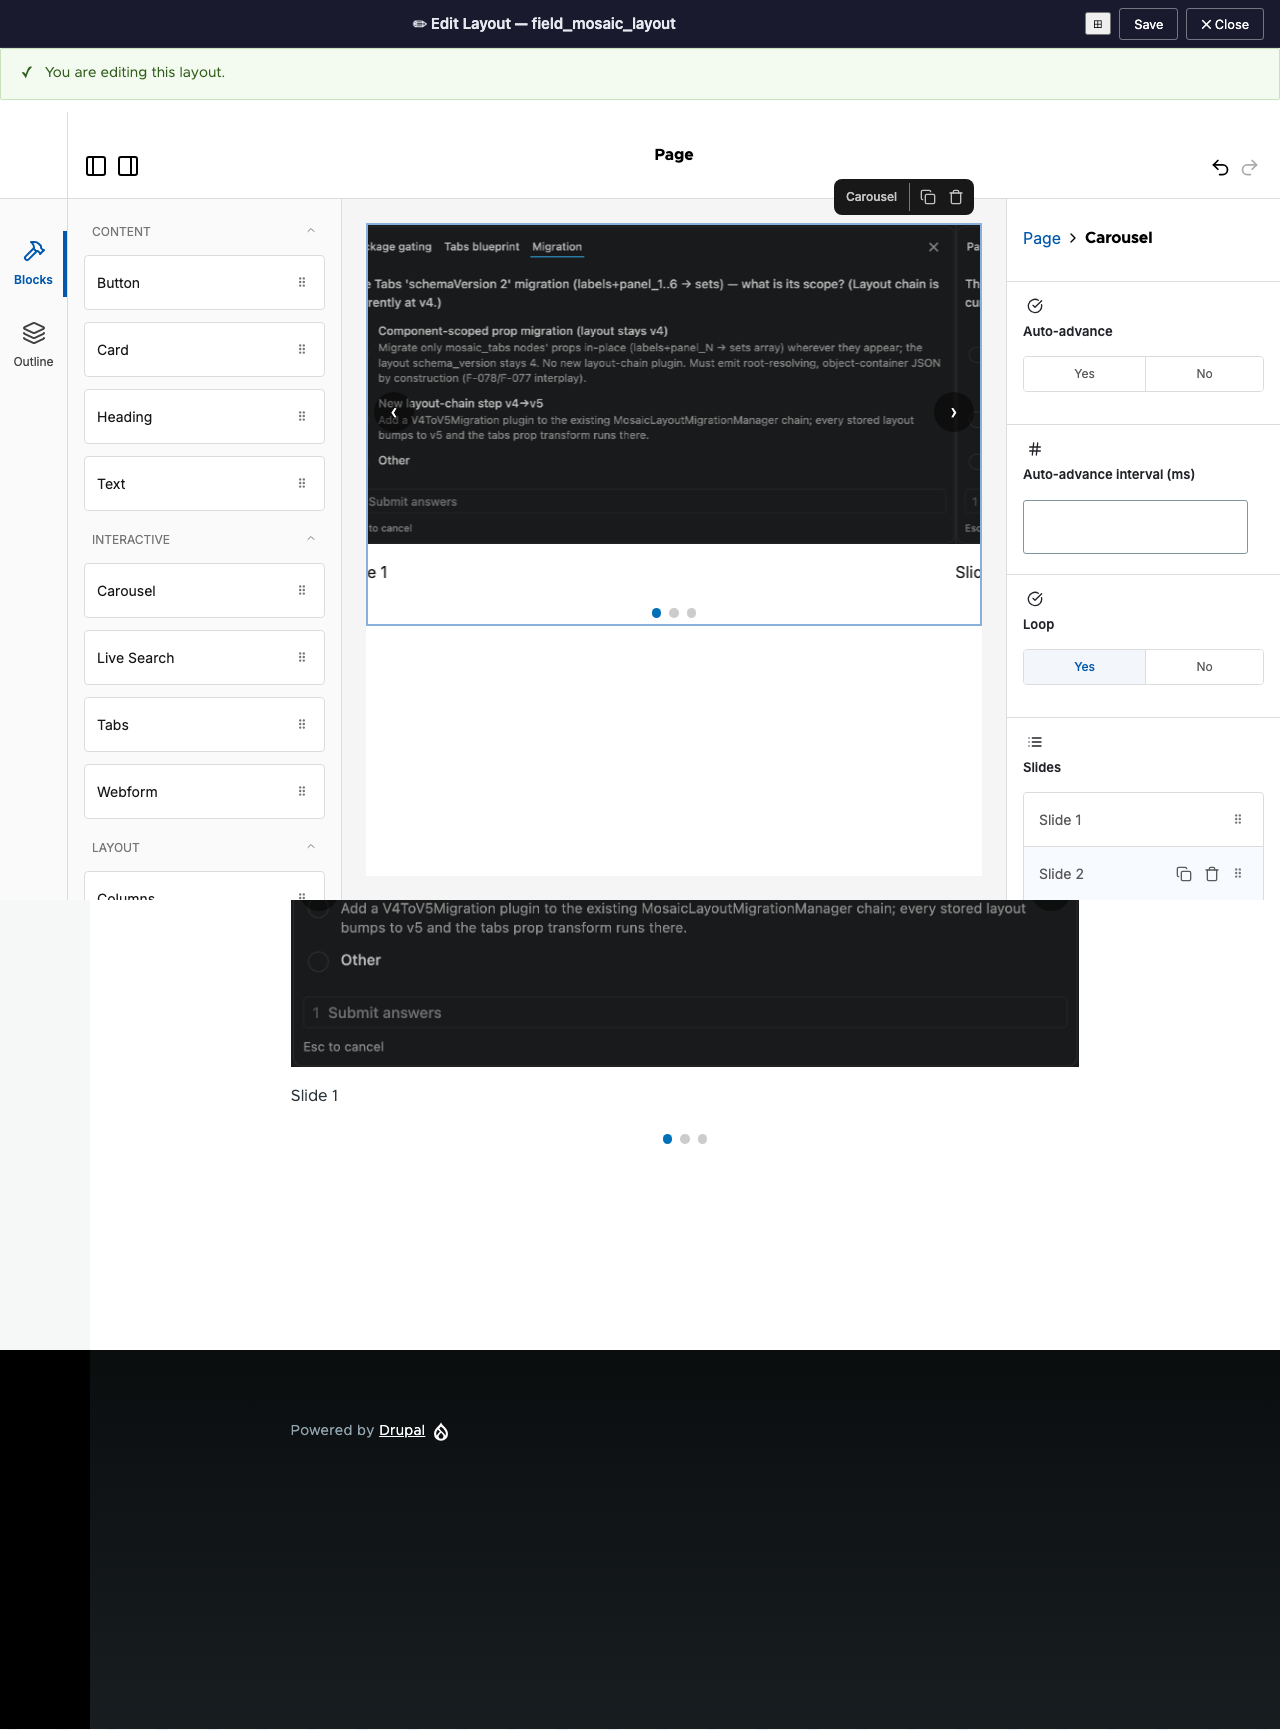
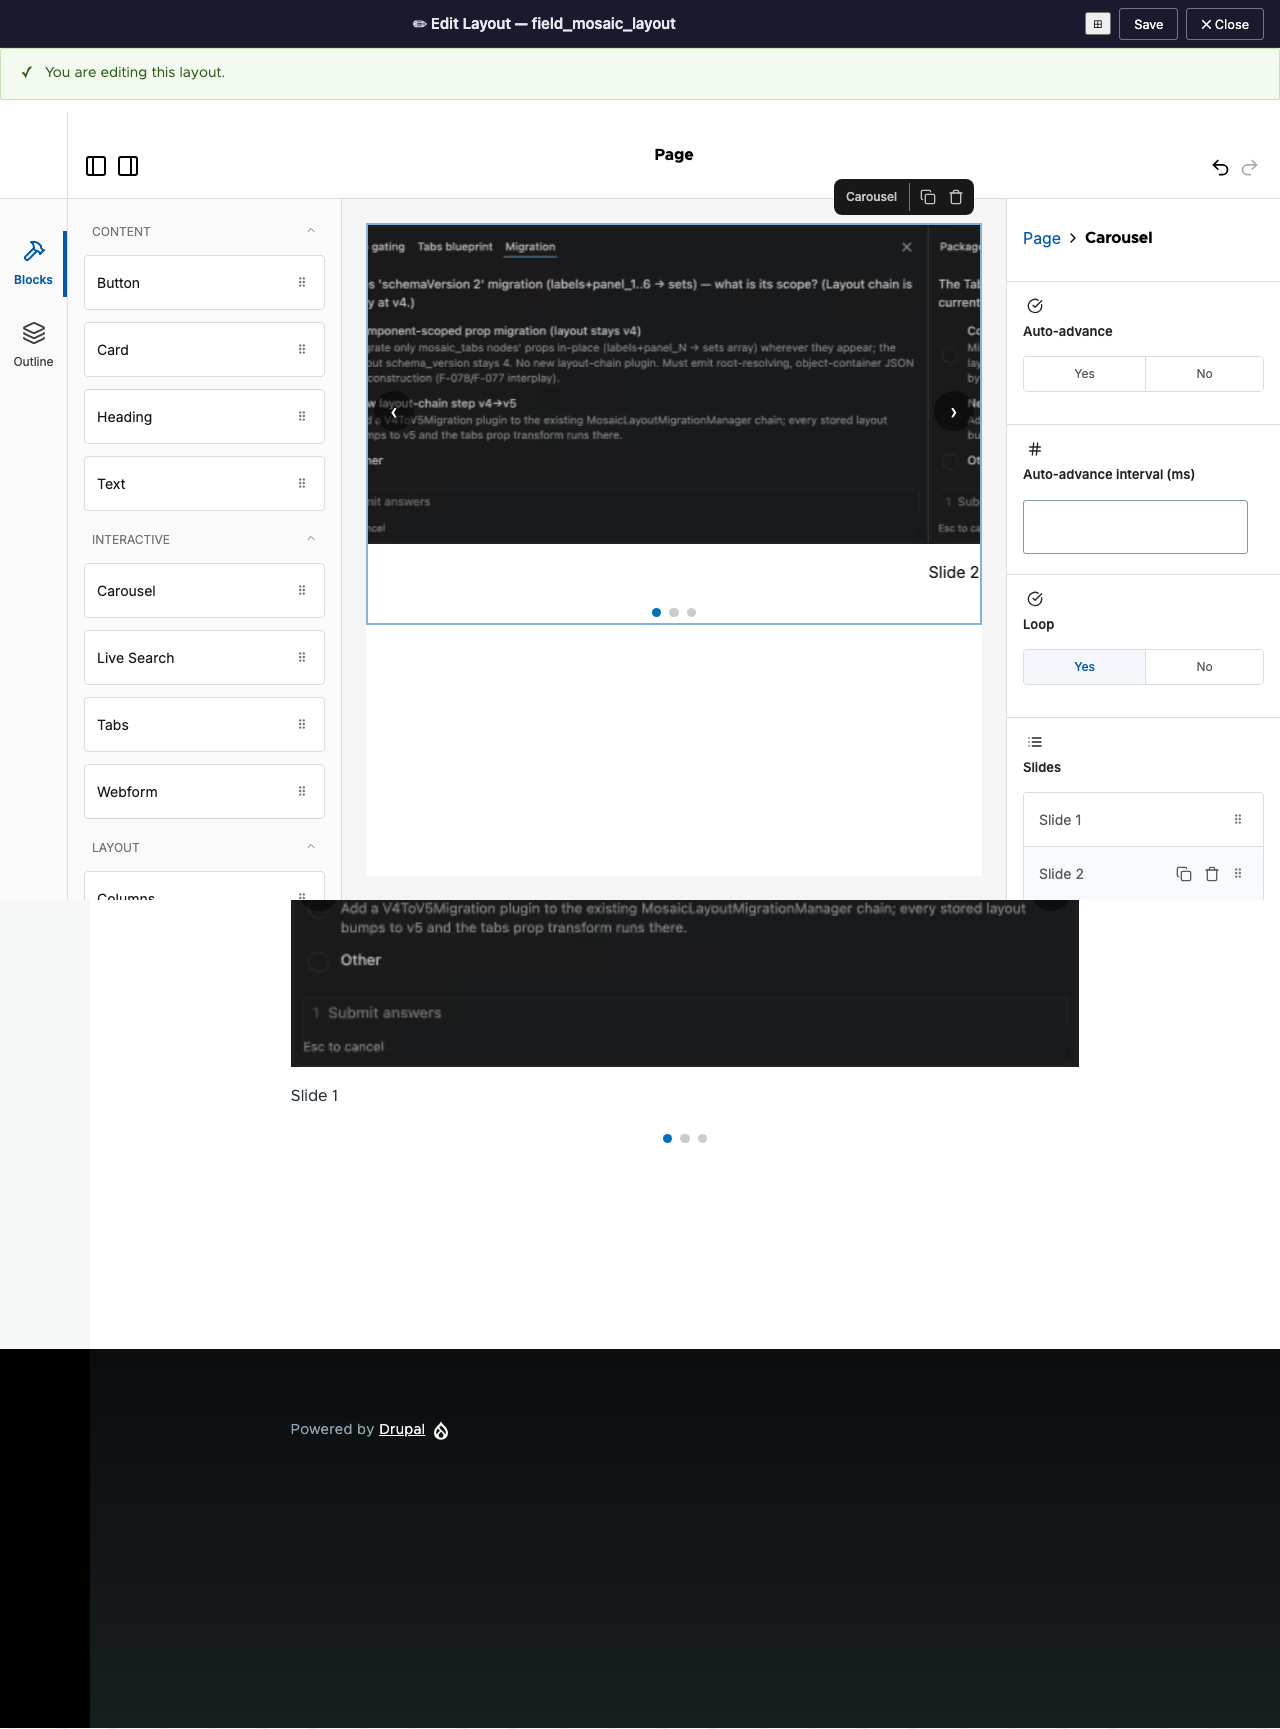
W8: F-103 Option A — canvas edit-mode inert contract (carousel + live_search)
Both live renderer components now honor data-mosaic-preview (shared editMode.ts):
carousel never auto-advances in a canvas + arrows/dots pointer-events:none (panel
sync untouched); live_search input disabled + zero fetches. Closes #55. Rides
frozen ship #34. Vitest editModeInert 7/7 (RED->GREEN); live f103 3/3 (visitor
still auto-advances, FE canvas inert + panel-sync drives); Vitest 503/1 (B-101);
carousel journeys + lock + f066 + F-094 7/7; renderer rebuilt, builder untouched.
Full report: reports/REPORT-W8.md.

Changed region(s): [[0.2812, 0.1249, 0.7812, 0.3123], [0.7188, 0.3123, 0.75, 0.3436]]

diff --git a/reports/REPORT-W8.md b/reports/REPORT-W8.md
@@ -1,0 +1,71 @@
+# REPORT — W8 (F-103 OPTION A: canvas edit-mode inert contract)
+
+**Charter:** W8 — implement F-103 Option A (ratified R-55) into frozen ship #34.
+**Status:** COMPLETE — carousel + live_search now honor `data-mosaic-preview`;
+RED→GREEN Vitest (7/7) + live e2e both directions (3/3); renderer rebuilt; gates green.
+**Rulings ledgered first:** R-55 (Option A; B/C rejected), R-56 (#56 closed non-defect;
+per-slide style → CP-CAROUSEL-GEOMETRY, queued first after ceremony).
+
+---
+
+## W8a — WITNESS (current paths, file:line)
+- **carousel** `mosaic-carousel.ts`: `connectedCallback` (152) → `if (this.autoAdvance)
+  this._startTimer()`; `_startTimer` (162) → `setInterval` auto-advance. **No**
+  `data-mosaic-preview` handling; arrows/dots always live.
+- **live_search** `mosaic-live-search.ts`: `_onInput` (89) → `setTimeout(300)` →
+  `_fetch` (98) → `fetch(endpoint+query)`. **No** edit-mode handling.
+- **tabs** (precedent to generalize) `mosaic-tabs.ts:57`:
+  `:host([data-mosaic-preview]) button[role="tab"] { pointer-events: none; }` — CSS-only
+  contract; MosaicRenderer stamps `data-mosaic-preview="canvas"` (`MosaicRenderer.php:449`).
+
+## W8b — FIX (renderer only)
+Shared `editMode.ts` centralises the contract (`CANVAS_PREVIEW_ATTR`, `isCanvasPreview`).
+Both components add a reactive `preview` Boolean prop bound to `data-mosaic-preview`.
+- **carousel:** `connectedCallback` → `if (this.autoAdvance && !this.preview)`;
+  `_startTimer` → `if (this.preview) return`; `updated()` → clears a running timer when
+  preview is set; CSS `:host([data-mosaic-preview]) .car-btn, .car-dot { pointer-events:
+  none }`. **Panel-sync untouched** (drives via the reactive `active` prop + `.car-track`
+  transform, which the inerting does not touch).
+- **live_search:** `_onInput` + `_fetch` early-return when preview (zero network);
+  input `?disabled=${this.preview}`.
+
+### RED→GREEN — Vitest `editModeInert.test.ts` (7/7)
+Guards driven directly (the DSD-reuse `createRenderRoot` is not jsdom-mountable — proven
+live instead). Pre-fix, the two canvas cells FAIL (timer runs / fetch fires):
+- carousel: auto-advances when !preview; **never** when preview (no `_timer`); a running
+  timer STOPS when preview is set (`updated`); panel-sync still drives `active` in preview;
+  CSS carries the arrow+dot `pointer-events:none` rule.
+- live_search: fetches when !preview; **zero** fetches when preview.
+
+## W8c — PROVE LIVE both ways (`f103-edit-mode-inert.spec.ts`, node 945, auto_advance=ON)
+- **VISITOR** `/node/945`: `data-mosaic-preview` = null; track `translateX 0% → −200%`
+  over 1.6s → **still auto-advances for visitors**. Frame `f103-01-visitor-autoadvances.png`.
+- **FE dialog canvas**: `data-mosaic-preview="canvas"`; `.car-btn` computed
+  `pointer-events: none` (**arrows dead**); track `0% → 0%` over 2.5s (**no auto-scroll
+  under the author**). Frame `f103-02-fe-canvas-inert.png`.
+- **Panel-sync intact**: expanding slide row 2 → canvas shows slide index 1 (geometry
+  oracle). Frame `f103-03-fe-canvas-panelsync.png`.
+All 3 @journey tests passed (real pointer).
+
+## W8d — dist + gates
+- **dist:** `js/dist/renderer.js` rebuilt (37.25 → 39.23 kB). **Builder bundle untouched**
+  — change is renderer-only (`js/src/renderer/components/`); the canvas loads
+  `mosaic/renderer`, not a builder-bundled copy.
+- **Vitest:** 503 passed / 1 failed = pre-existing **B-101** (MosaicPuckAdapter bool→radio
+  oracle drift; unrelated).
+- **e2e:** carousel slider-geometry + sync + fe + lifecycle + lock + f066 + F-094 scroll
+  = **7/7** green post-rebuild (F-103 did not regress the sync journeys — they expand rows,
+  not click arrows).
+- **PHP:** no PHP changed this charter → suite unaffected (W6 #56 guards remain 10/10).
+- Typecheck: only the pre-existing `dsdShadow.ts` TS2430 error; my files clean.
+
+## Files
+- New (tracked): `js/src/renderer/components/editMode.ts`;
+  `js/src/renderer/components/__tests__/editModeInert.test.ts`.
+- Modified (tracked): `js/src/renderer/components/mosaic-carousel.ts`;
+  `js/src/renderer/components/mosaic-live-search.ts`; `js/dist/renderer.js`.
+- Evidence-only (gitignored): `js/e2e/journeys/f103-edit-mode-inert.spec.ts`.
+- Ledger: `ledger-live/SHIP-34.md` (F-103 section), `ledger-live/TODO.md` (R-55/R-56 +
+  CP-CAROUSEL-GEOMETRY + F-103 resolution), album `e2e-evidence/ship34-carousel/f103-0{1,2,3}`.
+
+Ship #34 remains ONE uncommitted change set for Arun's ceremony (mosaic git read-only here).

diff --git a/ledger-live/SHIP-34.md b/ledger-live/SHIP-34.md
@@ -156,3 +156,56 @@ environmental drift (61 errors) needs a tooling/PHP-version reconcile, separate
 from any feature work. (c) The same DSD style-adoption gap is latent in
 `mosaic-tabs.ts` + `mosaic-live-search.ts` (they survive unstyled because their
 show/hide is attribute-driven, not CSS-driven) — witness + fix when touched.
+
+---
+
+## F-103 OPTION A — canvas edit-mode inert contract (charter W8, rides ship #34)
+
+Ratified R-55 (Option A; B/C rejected). Both live renderer components now honor the
+`data-mosaic-preview` attribute that `renderSingleComponent` already stamps on canvas
+hosts — closing the #55 defect (FE dialog canvas ran live visitor components).
+
+**Root cause recap (from REPORT-W6-W7):** the FE dialog opens on the node-VIEW page,
+which loads `mosaic/renderer` via the formatter for the visitor content, so canvas
+custom elements UPGRADE to live Lit; the admin builder page never loads renderer, so
+its canvas stays inert. Only `mosaic-tabs` had an edit-mode contract; carousel +
+live_search did not.
+
+**Fix (renderer only):**
+- New `js/src/renderer/components/editMode.ts` — shared `CANVAS_PREVIEW_ATTR` +
+  `isCanvasPreview()` (centralises the contract).
+- `mosaic-carousel.ts` — reactive `preview` prop (attr `data-mosaic-preview`);
+  `connectedCallback` + `_startTimer` never start auto-advance when preview;
+  `updated()` stops a running timer if preview is set; CSS
+  `:host([data-mosaic-preview]) .car-btn, .car-dot { pointer-events: none }`
+  (mirrors the tabs precedent). Panel-sync (active prop + `.car-track` transform)
+  untouched.
+- `mosaic-live-search.ts` — reactive `preview` prop; `_onInput` + `_fetch` early-return
+  when preview (zero network); input `?disabled=${this.preview}`.
+
+**Proof:**
+- Vitest `editModeInert.test.ts` **7/7** (RED→GREEN: pre-fix the canvas cells fail —
+  timer runs, fetch fires): auto-advance runs when !preview / never when preview /
+  stops on preview set / panel-sync drives `active` in preview / CSS inerts arrows+dots;
+  live_search fetches when !preview / zero fetches when preview.
+- Live e2e `f103-edit-mode-inert.spec.ts` **3/3** on node 945 (auto_advance=ON):
+  VISITOR page auto-scrolls (translateX 0%→−200%, no preview attr); FE dialog canvas
+  inert (preview="canvas", `.car-btn` pointer-events:none, transform 0%→0% over 2.5s)
+  yet panel-sync still drives slide→index 1. Frames f103-01/02/03.
+
+**Gates:** Vitest **503/1** (the 1 = pre-existing B-101 bool→radio drift). Carousel
+journeys (slider-geometry, sync, fe, lifecycle) + lock + f066 + F-094 **7/7** green
+post-rebuild. No PHP changed → PHP suite unaffected (W6 guards remain 10/10).
+
+**dist:** `js/dist/renderer.js` rebuilt (37.25 → 39.23 kB). **Builder bundle untouched**
+— the change is renderer-only (js/src/renderer/components/); the canvas loads
+`mosaic/renderer`, not a builder-bundled copy.
+
+**Add commands (mosaic repo, Arun runs):**
+```
+git add js/src/renderer/components/editMode.ts
+git add js/src/renderer/components/mosaic-carousel.ts js/src/renderer/components/mosaic-live-search.ts
+git add js/dist/renderer.js
+# evidence-only (gitignored): js/src/renderer/components/__tests__/editModeInert.test.ts is TRACKED (unit test)
+git add js/src/renderer/components/__tests__/editModeInert.test.ts
+```

diff --git a/ledger-live/TODO.md b/ledger-live/TODO.md
@@ -12203,3 +12203,32 @@ media image resolves, FE panel↔canvas sync) ALL PASSED — WALK-CATCHES #50–
   lack the data-mosaic-preview handling mosaic-tabs has (mosaic-tabs.ts:57). Options A (per-component
   inert contract; smallest/safest, sibling of F-102), B (isolated FE frame; largest/riskiest),
   C (suppress upgrade in canvas subtree; medium). NO recommendation ships — Arun/reviewer rule on scope.
+
+---
+
+## RULINGS RATIFIED BY ARUN 2026-09-13 (verbatim)
+**R-55:** F-103 fix = OPTION A (per-component edit-mode inert contract), rides frozen ship #34.
+Options B/C rejected — B breaks witnessed same-document assumptions (media bridge, CKE5 modal,
+panel sync); C forecloses live-preview for equal outcome with more churn.
+**R-56:** #56 CLOSED as non-defect (cache; guards hold). Per-slide image_style ruled WRONG
+GRANULARITY by product ruling → registered as CP-CAROUSEL-GEOMETRY, queued FIRST after ship #34
+ceremony, before CP-VIEWS-EMBED-1: carousel-level aspect_ratio prop (16:9, 4:3, 1:1, 21:9, auto →
+CSS aspect-ratio + object-fit:cover) + ONE carousel-level image style for file weight + REMOVE
+per-slide style from the authoring surface (saved sentinel image_style stays honored — no
+migration) + focal-point & tokens-ratio noted as later-wave riders.
+
+## CP-CAROUSEL-GEOMETRY (QUEUED — first after ship #34 ceremony, before CP-VIEWS-EMBED-1)
+Scope per R-56: carousel-level aspect_ratio prop (16:9/4:3/1:1/21:9/auto → CSS aspect-ratio +
+object-fit:cover); ONE carousel-level image style (file weight); REMOVE per-slide image style from
+the authoring surface (stored sentinel image_style still honored by the resolver — NO migration);
+focal-point + tokens-ratio = later-wave riders.
+
+### F-103 RESOLVED 2026-09-13 (charter W8, Option A) — full report: reports/REPORT-W8.md
+Both live renderer components now honor the data-mosaic-preview canvas contract (shared
+editMode.ts). carousel: no auto-advance in canvas (connectedCallback + _startTimer guards +
+updated() stop) + arrows/dots pointer-events:none; panel-sync (active prop + track transform)
+untouched. live_search: input disabled + zero fetches (_onInput/_fetch guards). Vitest
+editModeInert 7/7 (RED→GREEN); live f103-edit-mode-inert 3/3 on node 945 (VISITOR still
+auto-advances 0%→-200%; FE canvas inert 0%→0% + arrows dead + panel-sync drives slide→1).
+Gates: Vitest 503/1 (B-101 pre-existing); carousel journeys + lock + f066 + F-094 7/7;
+renderer rebuilt 39.23kB, builder untouched. Rides frozen ship #34. #55 CLOSED.
